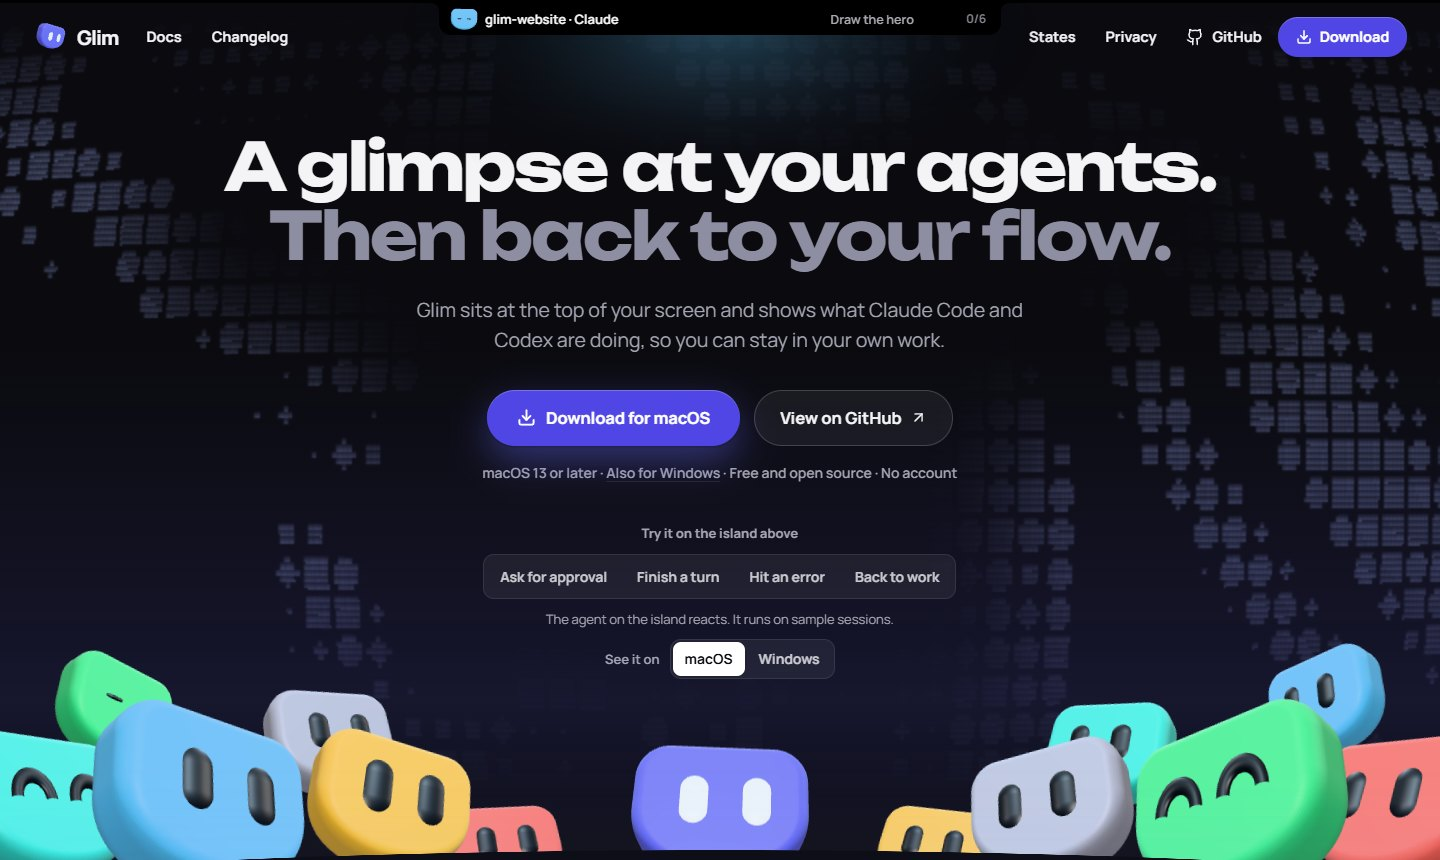
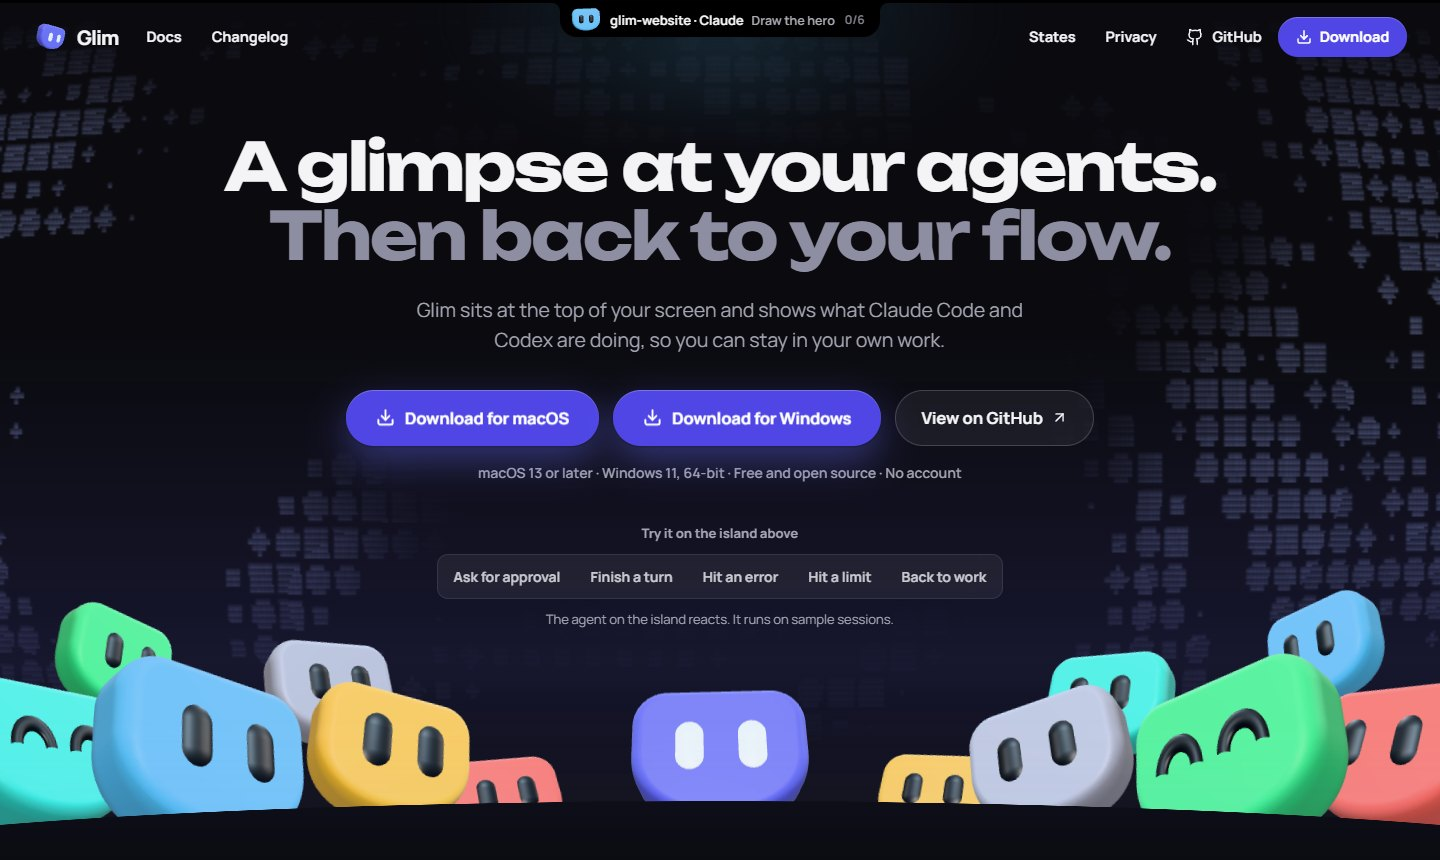
fix(site): the same page for every visitor, with both downloads equal
Mac visitors saw the island wrapped around a pretend notch, far wider
than the island everyone else saw, with a switch to compare the two.
Every visitor now sees the same island, and the switch is gone. The
hero and the closing panel offer Download for macOS and Download for
Windows as equal buttons, instead of one button for the visitor's
system and a small link for the other. The download icon no longer
plays its own bounce after the button has lifted; it rises with the
button.

The README's picture of the site and the changelog's line about it
follow.

diff --git a/site/main.tsx b/site/main.tsx
@@ -53,11 +53,11 @@ import {
   DownloadLink,
   GetLinks,
   NEEDS,
-  OTHER,
   PageLinks,
   REPO,
   SiteFoot,
   SYSTEM,
+  SYSTEMS,
   SystemSwitch,
   type System,
 } from './chrome';
@@ -940,9 +940,6 @@ function Facts({ step, onPick }: { step: number; onPick?: (i: number) => void })
 
 const SEVERAL = groupSessions(onSite(SCENARIOS.several.build(T0), 'details'), SEEN);
 
-// A MacBook's camera notch, in points, for the island shown as on a Mac.
-const DEMO_NOTCH = { width: 200, height: 32 };
-
 function Site() {
   // Wide enough to open the island beside the copy without covering it.
   const wide = useMedia('(min-width: 1200px) and (min-height: 700px)');
@@ -1218,7 +1215,6 @@ function Site() {
           connectors={connectors}
           onConnectors={setConnectors}
           fast={shown === 'Several agents'}
-          notch={system === 'macOS' && !phone ? DEMO_NOTCH : null}
         />
       </div>
 
@@ -1270,20 +1266,18 @@ function Site() {
               you can stay in your own work.
             </p>
             <div className="site-cta" style={at(2)}>
-              <DownloadLink className="site-button">
-                <Download size={19} strokeWidth={2.4} aria-hidden="true" />
-                Download for {SYSTEM}
-              </DownloadLink>
+              {SYSTEMS.map((os) => (
+                <DownloadLink key={os} system={os} className="site-button">
+                  <Download size={19} strokeWidth={2.4} aria-hidden="true" />
+                  Download for {os}
+                </DownloadLink>
+              ))}
               <a className="site-more" href={REPO} target="_blank" rel="noreferrer">
                 View on GitHub <ArrowUpRight size={17} aria-hidden="true" />
               </a>
             </div>
             <p className="site-meta" style={at(3)}>
-              {NEEDS[SYSTEM]} ·{' '}
-              <DownloadLink system={OTHER} className="site-also">
-                Also for {OTHER}
-              </DownloadLink>{' '}
-              · Free and open source · No account
+              {NEEDS.macOS} · {NEEDS.Windows} · Free and open source · No account
             </p>
             <div className="site-try" style={at(4)} data-keep-open>
               <span id="site-try">Try it on the island above</span>
@@ -1315,12 +1309,6 @@ function Site() {
                 <button onClick={() => fire('work')}>Back to work</button>
               </div>
               <p>The agent on the island reacts. It runs on sample sessions.</p>
-              {!phone && (
-                <div className="site-try-system">
-                  <span aria-hidden="true">See it on</span>
-                  <SystemSwitch value={system} onChange={setSystem} label="See the island on" />
-                </div>
-              )}
             </div>
           </div>
           <div className="site-crowd" aria-hidden="true">
@@ -1653,20 +1641,18 @@ function Site() {
                 back to your work.
               </p>
               <div className="site-close-cta site-item" style={at(1)}>
-                <DownloadLink className="site-button site-button-light">
-                  <Download size={19} strokeWidth={2.4} aria-hidden="true" />
-                  Download for {SYSTEM}
-                </DownloadLink>
+                {SYSTEMS.map((os) => (
+                  <DownloadLink key={os} system={os} className="site-button site-button-light">
+                    <Download size={19} strokeWidth={2.4} aria-hidden="true" />
+                    Download for {os}
+                  </DownloadLink>
+                ))}
                 <a className="site-more" href={REPO} target="_blank" rel="noreferrer">
                   View on GitHub <ArrowUpRight size={17} aria-hidden="true" />
                 </a>
               </div>
               <p className="site-meta">
-                {NEEDS[SYSTEM]} ·{' '}
-                <DownloadLink system={OTHER} className="site-also">
-                  Also for {OTHER}
-                </DownloadLink>{' '}
-                · MIT license
+                {NEEDS.macOS} · {NEEDS.Windows} · MIT license
               </p>
             </div>
           </div>

diff --git a/site/AppIsland.tsx b/site/AppIsland.tsx
@@ -12,7 +12,6 @@ import useNoticeFold from '../src/useNoticeFold';
 import useReducedMotion from '../src/useReducedMotion';
 import { quickAction, selectedQuickOptions } from '../src/quick-options';
 import type { Connector, Preferences, Session } from '../src/types';
-import type { Notch } from '../src/api';
 
 export type IslandView = 'compact' | 'glance' | 'details' | 'settings' | 'usage' | 'setup';
 
@@ -27,7 +26,6 @@ export function AppIsland({
   connectors,
   onConnectors,
   fast = false,
-  notch = null,
 }: {
   sessions: Session[];
   seenAt: number;
@@ -40,8 +38,6 @@ export function AppIsland({
   onConnectors: (next: Connector[]) => void;
   // Several agents on show: the notch moves through them and their notices quickly.
   fast?: boolean;
-  // A Mac's camera notch to wrap, as the app does on a MacBook.
-  notch?: Notch | null;
 }) {
   const reduced = useReducedMotion();
   const anchor = useRef<HTMLDivElement>(null);
@@ -121,7 +117,6 @@ export function AppIsland({
     content = (
       <Compact
         view={preview}
-        notch={notch}
         folded={folded}
         onFoldedChange={setFolded}
         count={groups.length}
@@ -174,15 +169,13 @@ export function AppIsland({
     >
       <IslandSurface
         expanded={expanded}
-        notch={notch}
         viewKey={viewKey}
         tone={prefs.paused || !preview.current ? 'calm' : preview.current.look.tone}
         glow={prefs.glow ?? 50}
         reduced={reduced}
         onError={() => {}}
-        // Around a notch the island stays on it, as in the app.
-        position={notch ? 0.5 : position}
-        onPosition={notch ? undefined : async (next) => setPosition(next)}
+        position={position}
+        onPosition={async (next) => setPosition(next)}
         // The app's quick options, acting on this page; Quit has nothing to quit here.
         options={
           prefs.quickOptionsEnabled

diff --git a/site/site.css b/site/site.css
@@ -292,14 +292,6 @@ body {
     0 18px 44px rgba(99, 102, 241, 0.55);
   transform: translateY(-2px);
 }
-.site-button:hover svg {
-  animation: site-nudge 650ms var(--ease-out);
-}
-@keyframes site-nudge {
-  45% {
-    transform: translateY(3px);
-  }
-}
 .site-button:active {
   transform: translateY(0);
 }
@@ -512,17 +504,7 @@ body {
   opacity: 0.4;
   cursor: default;
 }
-.site-meta .site-also {
-  color: inherit;
-  text-decoration: underline;
-  text-decoration-color: var(--site-line);
-  text-underline-offset: 3px;
-  transition: color 150ms var(--ease-out);
-}
-.site-meta .site-also:hover {
-  color: var(--site-text);
-}
-/* macOS or Windows: which system the island and the install steps are shown for. */
+/* macOS or Windows: which system the install steps are shown for. */
 .site-system {
   background: rgba(255, 255, 255, 0.06);
   box-shadow: inset 0 0 0 1px var(--site-line);
@@ -539,17 +521,6 @@ body {
 }
 #install .site-system {
   margin-top: 28px;
-}
-.site-try-system {
-  display: flex;
-  align-items: center;
-  gap: 10px;
-  color: var(--site-text-2);
-  font-size: 13px;
-  font-weight: 650;
-}
-.site-try-system .pseg button {
-  padding: 6px 12px;
 }
 
 /* Glims peeking over the horizon. They are cut along the arc by a mask rather than hidden
@@ -2433,10 +2404,8 @@ body {
   .site-zs b:not(:first-child) {
     display: none;
   }
-  .site-button:hover,
-  .site-button:hover svg {
+  .site-button:hover {
     transform: none;
-    animation: none;
   }
   .site-spill {
     animation: none;

diff --git a/site/chrome.tsx b/site/chrome.tsx
@@ -10,7 +10,8 @@ export const DOWNLOAD = `${REPO}/releases/latest`;
 export type System = 'macOS' | 'Windows';
 // The visitor's system picks the download. Phones and tablets get their maker's computer.
 export const SYSTEM: System = /Mac|iPhone|iPad/.test(navigator.userAgent) ? 'macOS' : 'Windows';
-export const OTHER: System = SYSTEM === 'macOS' ? 'Windows' : 'macOS';
+// Both downloads, in the same order for every visitor.
+export const SYSTEMS: System[] = ['macOS', 'Windows'];
 export const NEEDS: Record<System, string> = {
   macOS: 'macOS 13 or later',
   Windows: 'Windows 11, 64-bit',

diff --git a/CHANGELOG.md b/CHANGELOG.md
@@ -12,7 +12,7 @@ Glim comes to the Mac.
 - **Around the notch.** On a MacBook, the island grows out of the notch: the agent on the left, its step and state on the right, and nothing where the camera is. The open island starts below the notch. On other screens it hangs from the top of the menu bar.
 - **Go to the agent, on a Mac.** The button brings the agent's app to the front, and in Terminal and iTerm2 it selects the agent's own tab. macOS asks once whether Glim may control them.
 - **Open at login**, **Hide over fullscreen apps** and updates from Settings work on the Mac as they do on Windows.
-- **The website** offers the download for your system, with the other one a click away, and shows the island around a notch for Mac visitors. The docs cover both systems.
+- **The website** offers both downloads, macOS and Windows. The docs cover both systems.
 - **Move the island.** Hold the preview or header for 350 ms, then drag left or right. It presses in slightly when picked up, carries on when thrown, and settles in the middle when let go near it. It stays at the top of the display and remembers its position. On a MacBook with a notch it stays on the notch. Alt + Left/Right also moves a focused preview.
 - **Quick options.** Hidden by default; enable them in Settings, choose shortcuts and drag them into order. A small black circle buds from the island; click it and its icons slide out into one pill, each in its own circle. It opens to the left near the right screen edge. Centre horizontally glides the island back to the middle. Centre and Quit are also in Settings. Right click and Shift + F10 open enabled shortcuts. Hover labels no longer cover the collapsed preview.
 - **Notices fold away.** What waits for you no longer grows a long list under the island. A new notice shows as a row under the notch for a few seconds, then folds into a slim strip with one dot per waiting agent in its state's color. Click the strip to see the list again; Hide folds it at once.

diff --git a/README.md b/README.md
@@ -4,7 +4,7 @@
 
 A minimal desktop island for Claude Code and Codex CLI, on macOS and Windows. On a MacBook it wraps the notch. Live activity, context, token usage, and reported task progress stay above your workspace. Your data stays on your device.
 
-[![The Glim website: the island around a Mac notch at the top of the screen, the headline, and a row of 3D Glims](docs/images/website.jpg)](https://glim.jacobbalane.com/)
+[![The Glim website: the island at the top of the screen, the headline, downloads for macOS and Windows, and a row of 3D Glims](docs/images/website.jpg)](https://glim.jacobbalane.com/)
 
 **[Try it on the website →](https://glim.jacobbalane.com/)** The page runs the real island on sample sessions. Ask for approval, finish a turn or hit an error, and watch it react. Nothing to install.
 
